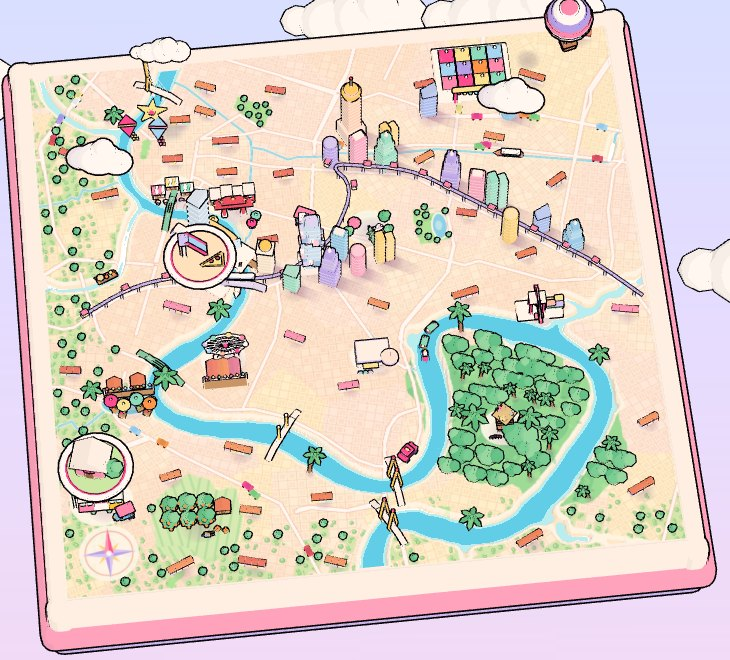
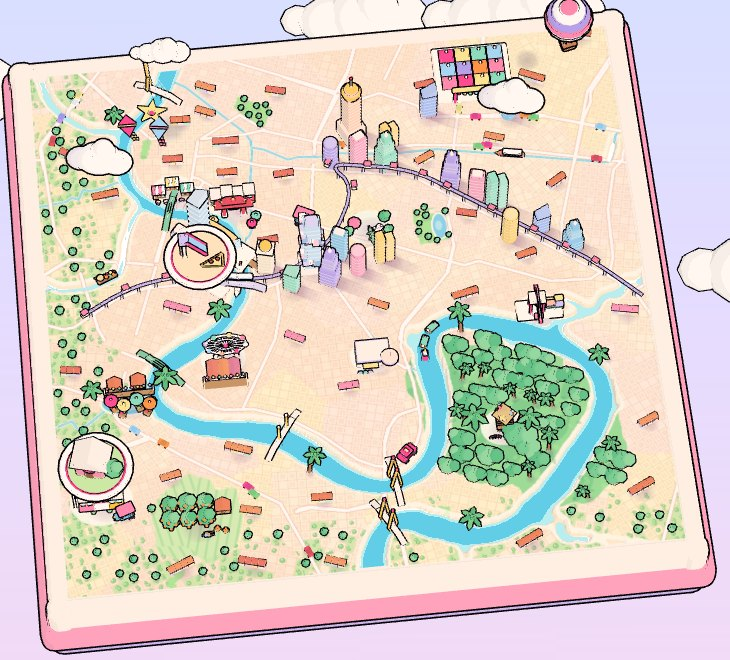
Review page for neb636/bangkok-map-leafy-thonburi

diff --git a/neb636--bangkok-map-leafy-thonburi/index.html b/neb636--bangkok-map-leafy-thonburi/index.html
@@ -1,6 +1,6 @@
 <!doctype html>
 <html lang="en"><head><meta charset="utf-8"><meta name="viewport" content="width=device-width,initial-scale=1">
-<title>The Bangkok map: Thonburi is city now, with green</title>
+<title>The Bangkok map: Thonburi is city now, with green, and no compass</title>
 <style>
 :root{--ink:#3b2a4a;--soft:#6f5f7d;--bg:#fff8fc;--card:#fff;--line:#f1e4f2;--pink:#e2468a;--lav:#efe6ff;--warn:#b0124f}
 @media (prefers-color-scheme:dark){:root:not([data-theme="light"]){--ink:#f6eefb;--soft:#c3b3d0;--bg:#1d1524;--card:#271d30;--line:#3a2c45;--pink:#ff7ab4;--lav:#33264a;--warn:#ff8fb8;color-scheme:dark}}
@@ -36,12 +36,14 @@ button:focus-visible,.pill:focus-visible{outline:3px solid var(--ink);outline-of
 @media (min-width:900px){main{max-width:1100px}.pitches{display:grid;grid-template-columns:repeat(3,1fr);gap:16px}.pics{display:grid;grid-template-columns:1fr 1fr;gap:0 18px}}
 </style></head><body><main>
 <span class="chip">Check-in fix</span>
-<h1>The Bangkok map: Thonburi is city now, with green</h1>
-<p class="kaylee">Out west and down south the board is city like the real Bangkok from the air: streets and roofs, with gardens and big trees speckled through them. The farmland is gone, except Bang Mot's one orange orchard.</p>
+<h1>The Bangkok map: Thonburi is city now, with green, and no compass</h1>
+<p class="kaylee">Out west and down south the board is city like the real Bangkok from the air: streets and roofs, with gardens and big trees speckled through them. The farmland is gone, except Bang Mot's one orange orchard. The compass in the corner is gone.</p>
 
 
 <h2>Before and after</h2><div class="pics"><figure class="pair"><div><img src="pics/west-before.jpg" alt="Before: Thonburi, the part you circled" loading="lazy"><span>Before</span></div><div><img src="pics/west-after.jpg" alt="After: Thonburi, the part you circled" loading="lazy"><span>After</span></div>
 <figcaption><b>Thonburi, the part you circled</b>: Striped fields become streets and rooftops, with gardens and trees thickest along the khlongs and toward the edge</figcaption></figure>
+<figure class="pair"><div><img src="pics/corner-before.jpg" alt="Before: The south-west corner" loading="lazy"><span>Before</span></div><div><img src="pics/corner-after.jpg" alt="After: The south-west corner" loading="lazy"><span>After</span></div>
+<figcaption><b>The south-west corner</b>: The compass is off; city and trees fill its spot</figcaption></figure>
 <figure class="pair"><div><img src="pics/board-before.jpg" alt="Before: The whole board on an iPhone" loading="lazy"><span>Before</span></div><div><img src="pics/board-after.jpg" alt="After: The whole board on an iPhone" loading="lazy"><span>After</span></div>
 <figcaption><b>The whole board on an iPhone</b>: The middle of town is unchanged; the south past the river's loop got the same leafy-city look</figcaption></figure></div>
 
